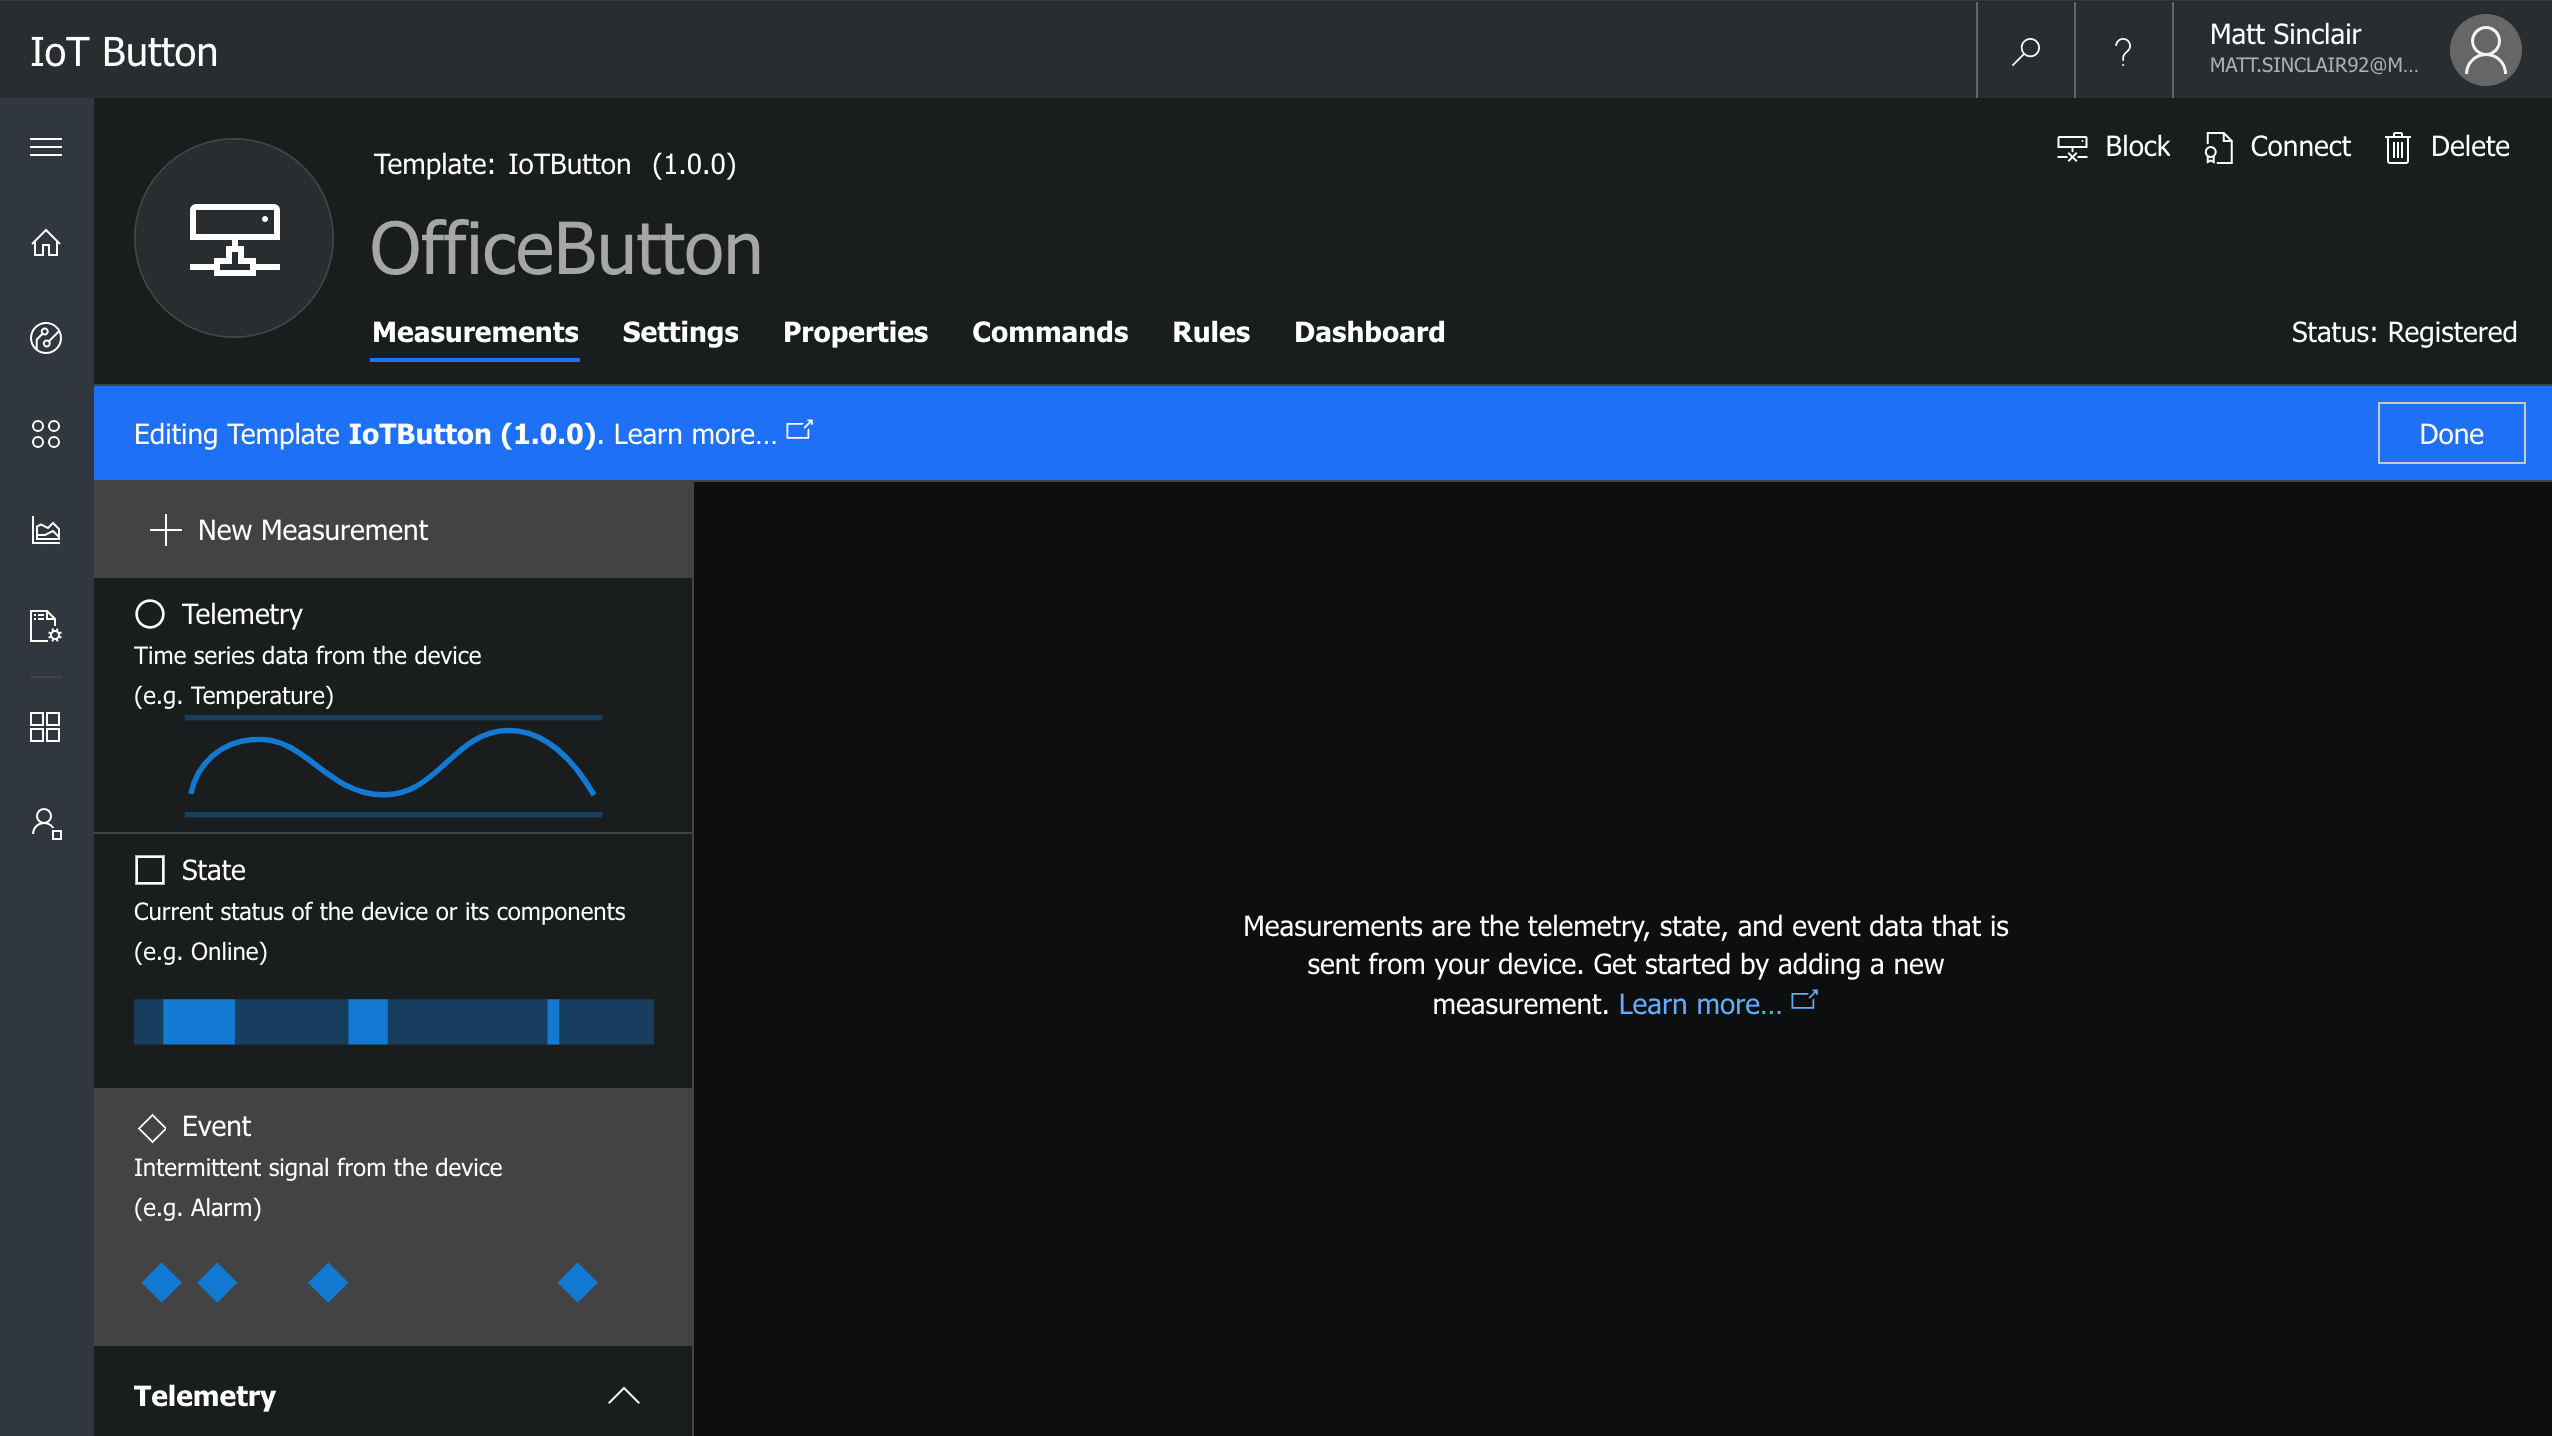
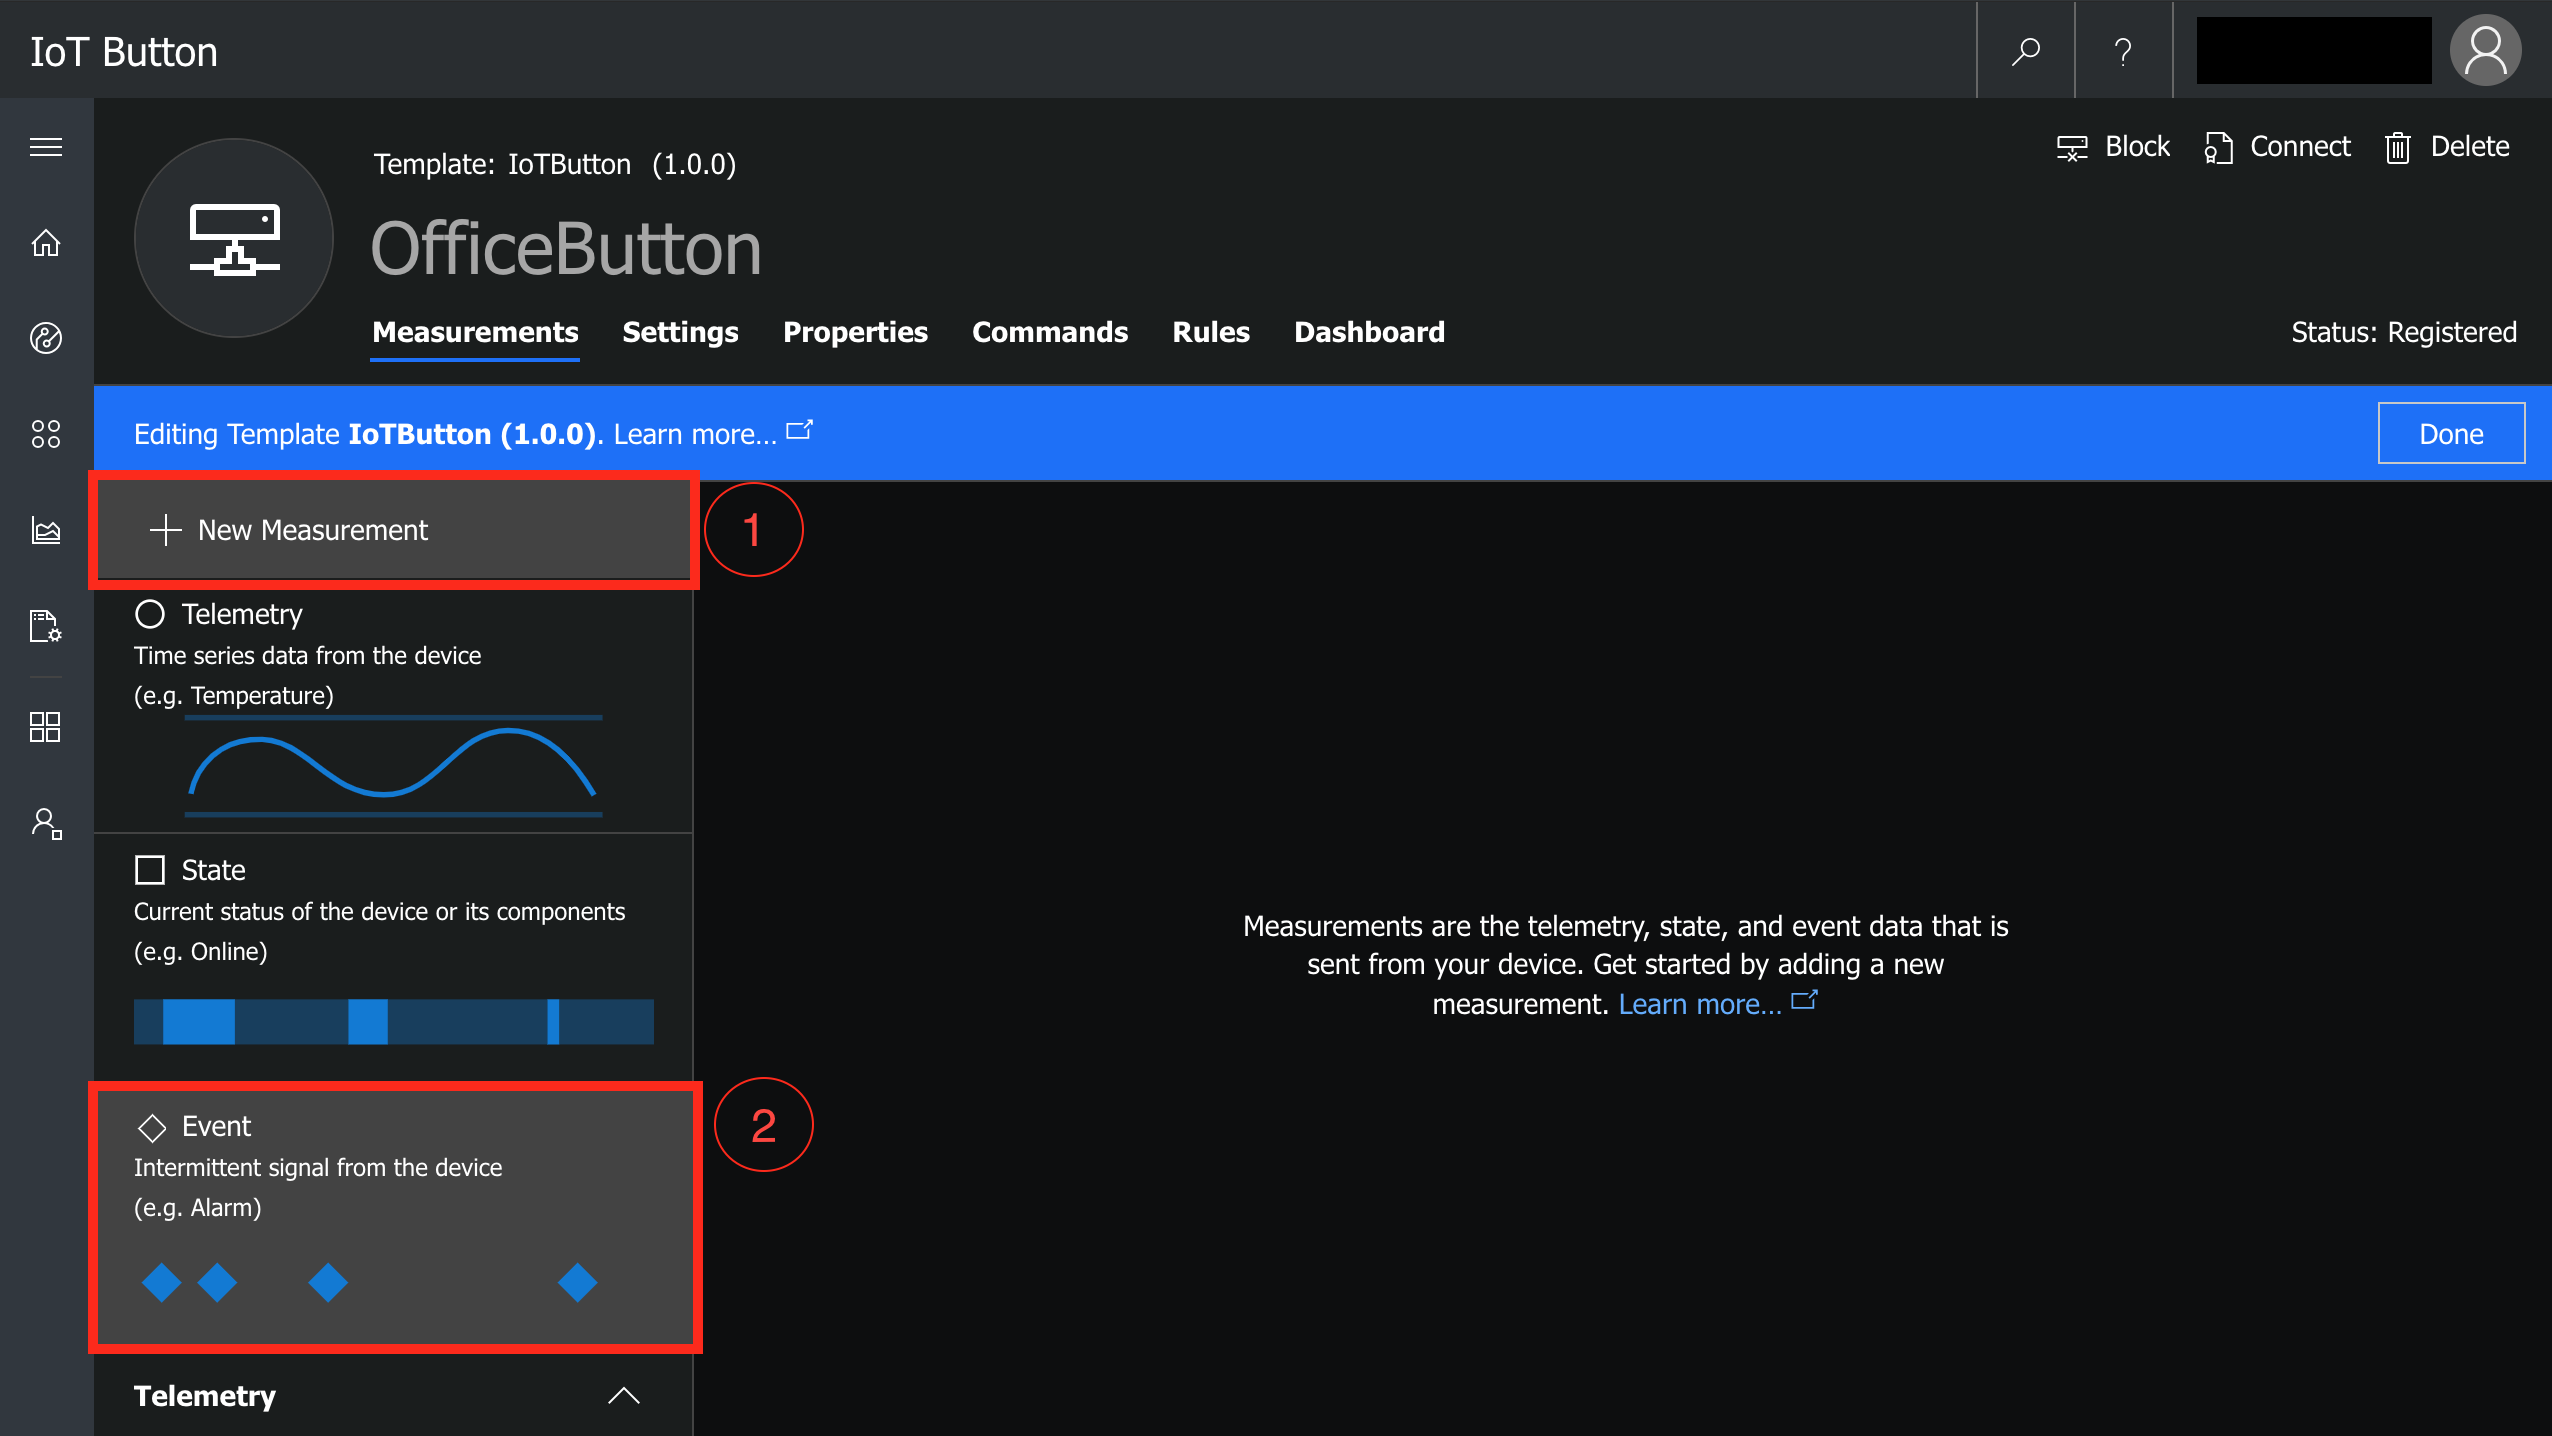
Included Images in tutorial

Changed region(s): [[0.031, 0.7354, 0.3096, 0.9499], [0.031, 0.3064, 0.2786, 0.429], [0.8358, 0.0, 0.9596, 0.0613]]

diff --git a/README.md b/README.md
@@ -35,32 +35,69 @@ Something as simple as a button can have powerful actions when connected to Azur
   c. Enter a suitable *Application Name* and use a unique *URL*
   d. Press *Create* when done
 
-![IoT Central - Application Home Page](https://github.com/mjksinc/ButtonGuide-Dev/blob/master/images/Image1.5.png)
+![IoT Central - Configuration Page](https://github.com/mjksinc/ButtonGuide-Dev/blob/master/images/Image1.4.png)
 
 5. That's it! You should now the see the main dashboard of your new IoT Central Application.
 
+![IoT Central - Application Home Page](https://github.com/mjksinc/ButtonGuide-Dev/blob/master/images/Image1.5.png)
+
 ## Creating a Device Template
 1. Select *Create Device Templates* from the tile on the main dashboard or select *Application Builder > Create Device Template > Custom*
+
+![IoT Central - Application Builder, Template](https://github.com/mjksinc/ButtonGuide-Dev/blob/master/images/Image2.1.png)
+
 2. Enter a unique name for you Device Template and select *Create* when complete
+
+![IoT Central - Create Template](https://github.com/mjksinc/ButtonGuide-Dev/blob/master/images/Image2.1.png)
+
 3. This will generate a Simulated Device which you can use to create graphs, build dashboards, and get your application together before needing to connect a physcial device. Since we're using a physical device, we'll delete the simulated device. Select *Delete* to remove
+
+![IoT Central - Delete Simulated](https://github.com/mjksinc/ButtonGuide-Dev/blob/master/images/Image2.2.png)
 
 ## Creating and configuring a new physical Device
 1. Go to the *Device Explorer* by selecting the icon on in the right-side menu
+
+- [ ] *TODO* Fix Flow
+
 2. Select the Button template you created, the click *+ > Real* to create a new real device
+
+- [ ] *TODO* Add Image of creating real device
+
 3. Enter the following details to create the device:
   a. A unique identifier. This will be used for the Device Provisioning Service. A MAC Address or Serial Number are suitable IDs
   b. A name for your button. This could be the same as the Device ID, or something completely different like location the button will be placed
   c. Select *Create* when completed
+
+![IoT Central - Create Device Template](https://github.com/mjksinc/ButtonGuide-Dev/blob/master/images/Image2.4.png)
+
 4. You should now be on the device configuration page for the button you just created. If not, select *Device Explorer* in the right-side menu and navigate to your new device.
-5. You'll now configure the device's measurements. Specifically, the device will transmit a click *event* . Select *edit template* to begin configuring the measurements
-6. Make sure you're in the *measurements* tab, click *Edit Template* and select *+ New Measurement > Event* (you may need to scroll depending on the zoom level of your browser)
+
+![IoT Central - View Device Template](https://github.com/mjksinc/ButtonGuide-Dev/blob/master/images/Image2.5.png)
+
+5. You'll now configure the device's measurements. Specifically, the device will transmit a click *event*. Make sure you're in the *measurements* tab, click *Edit Template*
+
+![IoT Central - Edit Measurement](https://github.com/mjksinc/ButtonGuide-Dev/blob/master/images/Image2.5.1.png)
+
+6. Select *+ New Measurement > Event* (you may need to scroll depending on the zoom level of your browser)
+
+![IoT Central - Create Event](https://github.com/mjksinc/ButtonGuide-Dev/blob/master/images/Image2.6.png)
+
 7. Now you'll configure the event parameters:
   a. Enter a *Display Name* for how the event will be labelled in your application
   b. Enter a *Field Name* for the measurement. __Note:__ This field name will need to be remembered for when you configure the button settings in future steps
   c. Set the *Default Severity* to any level for this use case
   d. Select *Save* when you're finished
+
+![IoT Central - Event Details](https://github.com/mjksinc/ButtonGuide-Dev/blob/master/images/Image2.7.png)
+
 8. A *Rule* needs to be created so your IoT Central application knows when to trigger an action. Select the *Rules* tab and click *Edit Template*.
+
+![IoT Central - Create Rule](https://github.com/mjksinc/ButtonGuide-Dev/blob/master/images/Image2.8.png)
+
 9. To add a new rule, select *+ New Rule* then *Event*
+
+![IoT Central - Edit Rule](https://github.com/mjksinc/ButtonGuide-Dev/blob/master/images/Image2.9.png)
+
 10. Configure the rule with the following properties:
   a. *Name* should be descriptove of the rule's action to avoid confusion
   b. Select *Enable* for both the template and device options
@@ -69,8 +106,11 @@ Something as simple as a button can have powerful actions when connected to Azur
     ii. For *Aggregator*, select *Count*
     iii. For *Operator*, select *is Greater Than or Equal to*
     iv. Enter *2* for the threshold
-  d. Select the *time duration* under the *Aggregation Time Window* as 10 minutes
+  d. Select the *time duration* under the *Aggregation Time Window* as 5 minutes
   e. Click save to confirm properties
+
+![IoT Central - Rule Details](https://github.com/mjksinc/ButtonGuide-Dev/blob/master/images/Image2.10.png)
+
 11. Now you've created the rule trigger, you'll need to create the action
   a. Scroll until you see *Actions* and click the adjacent *+* symbol.
   b. Select the email tile and enter the following details
